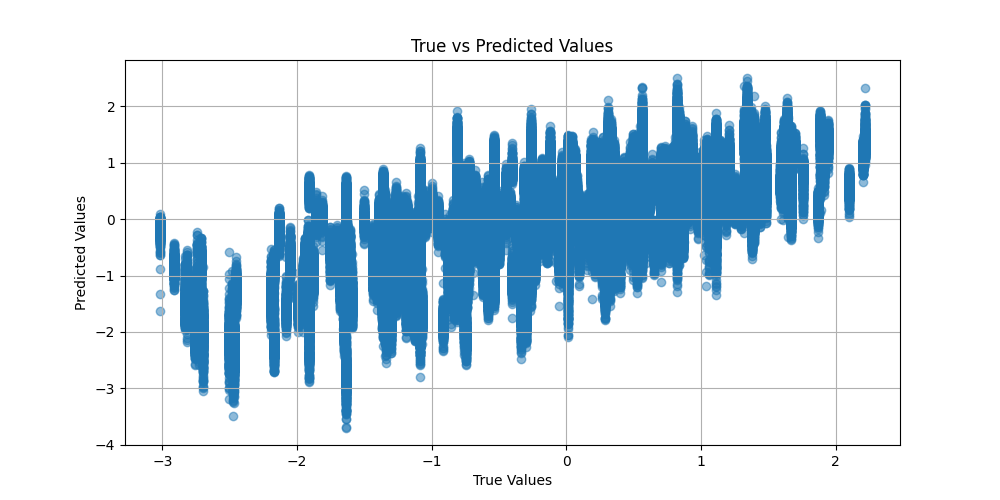
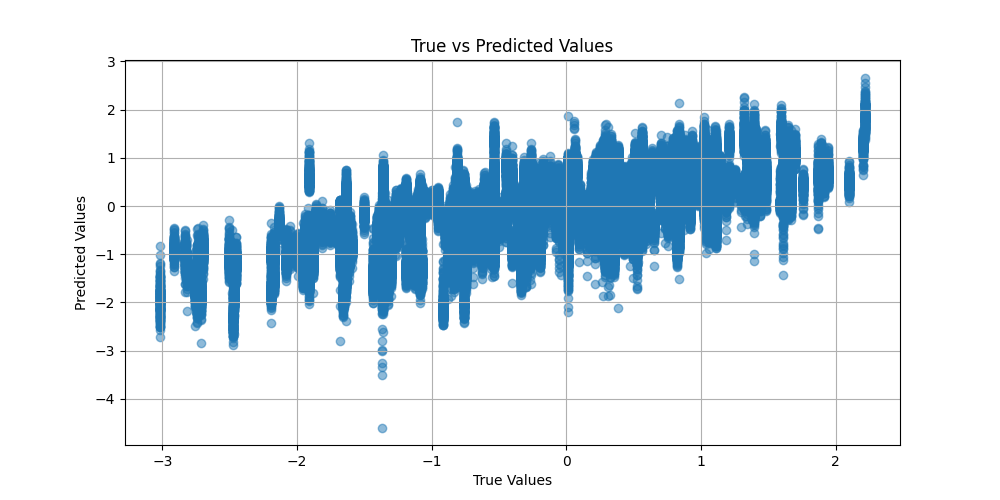
hyp with optuna

diff --git a/hyp_tune.py b/hyp_tune.py
@@ -4,16 +4,37 @@ from gnn import run_training_and_evaluation, data_loading
 from tqdm import tqdm
 import matplotlib.pyplot as plt
 from torch_geometric.loader import DataLoader
+import numpy as np
+import optuna
 
+def calculate_mean_loss_per_bin(true_values, predicted_values, num_bins=10):
+    # Binning the true values
+    bins = np.linspace(min(true_values), max(true_values), num_bins + 1)
+    bin_indices = np.digitize(true_values, bins) - 1  # -1 to make bins 0-indexed
 
-def run_training_and_evaluation(train_loader, test_loader, hidden_dim1=256, hidden_dim2=128, rnn_hidden_dim=256, num_epochs=100, lr=0.01, dropout_rate=0.5):
-    mlflow.log_param("num_epochs", num_epochs)
+    mean_losses = []
+    for i in range(num_bins):
+        # Extract values in each bin
+        indices = [index for index, bin_index in enumerate(bin_indices) if bin_index == i]
+        bin_true_values = [true_values[index] for index in indices]
+        bin_predicted_values = [predicted_values[index] for index in indices]
+        
+        # Calculate mean loss (mean absolute error) for each bin
+        if bin_true_values:
+            mean_loss = np.mean([abs(true - pred) for true, pred in zip(bin_true_values, bin_predicted_values)])
+            mean_losses.append(mean_loss)
+        else:
+            mean_losses.append(0)
+
+    return bins, mean_losses
+def run_training_and_evaluation(train_loader, test_loader, hidden_dim1=256, hidden_dim2=128, num_epochs=100, lr=0.01, dropout_rate=0.5):
+    # mlflow.log_param("num_epochs", num_epochs)
     input_dim = 100
-    mlflow.log_param("hidden_dim1", hidden_dim1)
-    mlflow.log_param("hidden_dim2", hidden_dim2)
-    mlflow.log_param("rnn_hidden_dim", rnn_hidden_dim)
-    model = SequentialRNNGNN(input_dim=input_dim, hidden_dim1=hidden_dim1, hidden_dim2=hidden_dim2, rnn_hidden_dim=rnn_hidden_dim, dropout_rate=dropout_rate)
-    optimizer = torch.optim.Adam(model.parameters(), lr)
+    # mlflow.log_param("hidden_dim1", hidden_dim1)
+    # mlflow.log_param("hidden_dim2", hidden_dim2)
+    # mlflow.log_param("rnn_hidden_dim", rnn_hidden_dim)
+    model = SimpleGNN(input_dim=input_dim, hidden_dim1=hidden_dim1, hidden_dim2=hidden_dim2, dropout_rate=dropout_rate)
+    optimizer = torch.optim.AdamW(model.parameters(), lr, weight_decay=5e-4)
     # criterion is RMSE loss
     mse_loss_criterion = torch.nn.MSELoss()  # Mean Squared Error for regression
     l1_loss_criterion = torch.nn.L1Loss()    # Mean Absolute Error for validation
@@ -58,19 +79,54 @@ def run_training_and_evaluation(train_loader, test_loader, hidden_dim1=256, hidd
         if avg_val_loss < best_val_loss:
             best_val_loss = avg_val_loss
             torch.save(model.state_dict(), 'best_model.pt')
-        mlflow.log_metric("train_loss", avg_train_loss, step=epoch)
-        mlflow.log_metric("val_loss", avg_val_loss, step=epoch)
+        # mlflow.log_metric("train_loss", avg_train_loss, step=epoch)
+        # mlflow.log_metric("val_loss", avg_val_loss, step=epoch)
+
+    bins, mean_losses = calculate_mean_loss_per_bin(true_values, predicted_values)
+   # Plotting True Values vs Predicted Values
     plt.figure(figsize=(10, 5))
     plt.scatter(true_values, predicted_values, alpha=0.5)
     plt.title('True vs Predicted Values')
     plt.xlabel('True Values')
     plt.ylabel('Predicted Values')
     plt.grid(True)
-    val_loss_plot_filename = "val_loss_vs_pred.png"
-    plt.savefig(val_loss_plot_filename)
-    mlflow.log_artifact(val_loss_plot_filename)
+    plt.savefig("true_vs_pred.png")
+    # mlflow.log_artifact("true_vs_pred.png")
+
+    # Plotting Mean Loss by Bins
+    plt.figure(figsize=(10, 5))
+    plt.bar(bins[:-1], mean_losses, width=np.diff(bins), align="edge", edgecolor='black')
+    plt.title('Mean Loss by Bins of True Values')
+    plt.xlabel('Bins of True Values')
+    plt.ylabel('Mean Loss')
+    plt.grid(True)
+    plt.savefig("mean_loss_by_bins.png")
+    # mlflow.log_artifact("mean_loss_by_bins.png")
+    plt.close('all')
+    return best_val_loss
+
+def objective(trial):
+    # Define hyperparameters using trial object
+    lr = trial.suggest_float("lr", 1e-5, 1e-1, log=True)
+    dropout_rate = trial.suggest_float("dropout_rate", 0.1, 0.6)
+    batch_size = trial.suggest_categorical("batch_size", [16, 32, 64])
+    hidden_dim1 = trial.suggest_categorical("hidden_dim1", [256, 512, 128])
+    hidden_dim2 = trial.suggest_categorical("hidden_dim2", [128, 256, 64])
+    train_data_list, test_data_list = data_loading()
+
+    # Create data loaders
+    train_loader = DataLoader(train_data_list, batch_size=batch_size, shuffle=True)
+    test_loader = DataLoader(test_data_list, batch_size=batch_size, shuffle=False)
+    num_epochs = 50
+    # Run the training and validation process
+    best_val_loss = run_training_and_evaluation(
+        train_loader, test_loader,
+        hidden_dim1, hidden_dim2,
+        num_epochs, lr, dropout_rate
+    )
 
     return best_val_loss
+
 
 def main():
     # Define hyperparameter grid
@@ -78,45 +134,41 @@ def main():
     dropout_rates = [0.3, 0.45, 0.5, 0.55]
     batch_sizes = [16, 32, 64]
     hidden_dims = [(256, 128), (512, 256), (128, 64)]
-    num_epochs = 200
-    rnn_hidden_dims = [128, 256]
+    num_epochs = 200  # You might want to reduce this for quicker iterations
     train_data_list, test_data_list = data_loading()
-    mlflow.set_experiment("Full Dataset")
-    # implemnt a counter for the number of runs to check progress
-    total_runs = len(lrs) * len(dropout_rates) * len(batch_sizes) * len(hidden_dims) * len(rnn_hidden_dims)
+    mlflow.set_experiment("Hyperparameter Tuning 2")
+
+    # Initialize counter for the number of runs
+    total_runs = len(lrs) * len(dropout_rates) * len(batch_sizes) * len(hidden_dims)
     counter = 0
-    batch_size = 32
-    train_loader = DataLoader(train_data_list, batch_size=batch_size, shuffle=True)
-    test_loader = DataLoader(test_data_list, batch_size=batch_size, shuffle=False)
 
-        # for hidden_dim1, hidden_dim2 in hidden_dims:
-        #     for rnn_hidden_dim in rnn_hidden_dims:
-        #         for dropout in dropout_rates:
-                # for lr in lrs:
-    lr = 0.01
-    dropout = 0.5
-    hidden_dim1 = 256  
-    hidden_dim2 = 128
-    rnn_hidden_dim = 128
-    with mlflow.start_run():
-        mlflow.log_params({
-            'learning_rate': lr,
-            'dropout_rate': dropout,
-            'batch_size': batch_size,
-            'hidden_dim1': hidden_dim1,
-            'hidden_dim2': hidden_dim2,
-            'rnn_hidden_dim': rnn_hidden_dim
-        })
-        best_val_loss = run_training_and_evaluation(
-            train_loader, test_loader,
-            hidden_dim1, hidden_dim2, rnn_hidden_dim,
-            num_epochs, lr, dropout
-        )
-        mlflow.log_metric("best_val_loss", best_val_loss * 3.6313932593669085)
-        mlflow.end_run()
-        counter += 1
-        print(f"Run {counter} of {total_runs} completed.")
+    for batch_size in batch_sizes:
+        train_loader = DataLoader(train_data_list, batch_size=batch_size, shuffle=True)
+        test_loader = DataLoader(test_data_list, batch_size=batch_size, shuffle=False)
+        
+        for hidden_dim1, hidden_dim2 in hidden_dims:
+            for dropout_rate in dropout_rates:
+                for lr in lrs:
+                    counter += 1
+                    print(f"Running configuration {counter} of {total_runs}")
+                    with mlflow.start_run():
+                        mlflow.log_params({
+                            'learning_rate': lr,
+                            'dropout_rate': dropout_rate,
+                            'batch_size': batch_size,
+                            'hidden_dim1': hidden_dim1,
+                            'hidden_dim2': hidden_dim2
+                        })
+                        best_val_loss = run_training_and_evaluation(
+                            train_loader, test_loader,
+                            hidden_dim1, hidden_dim2,
+                            num_epochs, lr, dropout_rate
+                        )
+                        mlflow.log_metric("best_val_loss", best_val_loss)
+                        mlflow.end_run()
+                    print(f"Configuration {counter} of {total_runs} completed: Best Val Loss: {best_val_loss}")
 
-                        
 if __name__ == "__main__":
     main()
+    # study = optuna.create_study(direction="minimize", study_name="Hyperparameter Tuning")
+    # study.optimize(objective, n_trials=100) 

diff --git a/models.py b/models.py
@@ -24,6 +24,7 @@ class SequentialRNNGNN(torch.nn.Module):
         super(SequentialRNNGNN, self).__init__()
         self.dropout_rate = dropout_rate
         self.conv1 = ChebConv(input_dim, hidden_dim1, K=2)
+        self.bn1 = torch.nn.BatchNorm1d(hidden_dim1)
         self.rnn = torch.nn.GRU(input_size=hidden_dim1 * 2, hidden_size=rnn_hidden_dim, batch_first=True)
         self.conv2 = GATConv(rnn_hidden_dim + hidden_dim1, hidden_dim2)
         self.lin1 = torch.nn.Linear(hidden_dim2, 1)
@@ -32,6 +33,7 @@ class SequentialRNNGNN(torch.nn.Module):
         x, edge_index, edge_attr = data.x, data.edge_index, data.edge_attr
         edge_index = edge_attr.reshape(2, -1)   
         x = self.conv1(x, edge_index)
+        x = self.bn1(x)
         x = F.relu(x)
         x = F.dropout(x, training=self.training, p=self.dropout_rate)
         edge_sequence = edge_attr.view(-1, 2).t().long()
@@ -68,24 +70,27 @@ class SequentialLSTMGNN(torch.nn.Module):
         x = F.relu(x)
         x = global_mean_pool(x, data.batch)
         x = self.lin1(x)
-
         return x
     
 class SimpleGNN(torch.nn.Module):
     def __init__(self, input_dim, hidden_dim1, hidden_dim2, dropout_rate=0.5):
         super(SimpleGNN, self).__init__()
         self.dropout_rate = dropout_rate
-        self.conv1 = ChebConv(input_dim, hidden_dim1, K=2)
+        self.conv1 = GCNConv(input_dim, hidden_dim1, K=2)
         self.conv2 = GATConv(hidden_dim1, hidden_dim2)
         self.lin1 = torch.nn.Linear(hidden_dim2, 1)
+        self.bn1 = torch.nn.BatchNorm1d(hidden_dim1)
+        self.bn2 = torch.nn.BatchNorm1d(hidden_dim2)
 
     def forward(self, data):
         x, edge_index, edge_attr = data.x, data.edge_index, data.edge_attr
         # edge_index = edge_attr.reshape(2, -1)
         x = self.conv1(x, edge_index)
+        x = self.bn1(x)
         x = F.relu(x)  
         x = F.dropout(x, training=self.training, p=self.dropout_rate)
         x = self.conv2(x, edge_index)
+        x = self.bn2(x)
         x = F.relu(x)
         x = global_mean_pool(x, data.batch)
         x = self.lin1(x)

diff --git a/gnn.py b/gnn.py
@@ -183,7 +183,7 @@ def data_loading():
     )
     # print(indices)
     index_mapping = {v: k for k, v in enumerate(valid_indices)}
-    valid_difficulties = (np.array(valid_difficulties) - np.mean(valid_difficulties))/ np.std(valid_difficulties)
+    # valid_difficulties = (np.array(valid_difficulties) - np.mean(valid_difficulties))/ np.std(valid_difficulties)
     def generate_data_list(indices, adjacency_matrices, node_feature_matrices, edge_sequence_list, difficulties):
         data_list = []
         for idx in indices:
